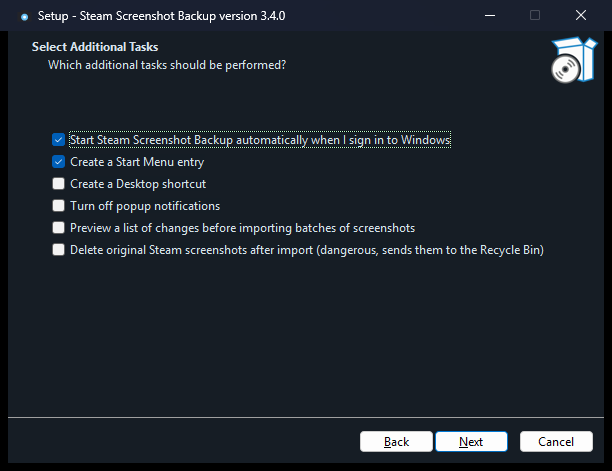
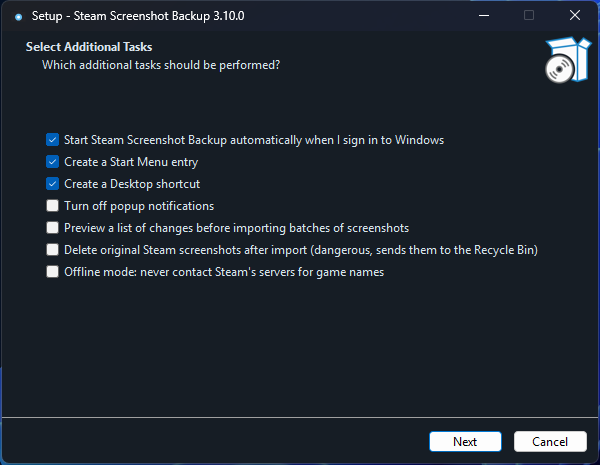
Document Offline Mode in README, regenerate settings/installer screenshots
Mentions the new Offline mode toggle and the offline-only portable download
in the feature list, installation steps, and the two FAQ answers that
previously said there was no way to disable Steam store lookups. Also
regenerates docs/img/settings-general.png (new Privacy section) and
docs/img/installer.png (new task checkbox; also fixes a stale "version
3.4.0" wizard title left over from an old capture).

diff --git a/README.md b/README.md
@@ -99,6 +99,9 @@ Steam Screenshots/
   it's safely backed up, recoverable from the Recycle Bin.
 - **Network-drive friendly.** If the destination becomes unreachable, the app
   waits and retries automatically, then catches up once it's back.
+- **Offline mode.** Skip Steam's store lookups entirely (a Settings toggle or
+  an installer checkbox), or download the dedicated offline-only portable
+  build with that code removed completely.
 - **Dark and light themes**, or follow the Windows setting.
 - **Statistics**: total games, screenshots, and data, plus per-session counters.
 
@@ -112,9 +115,9 @@ Steam Screenshots/
    [latest release](../../releases/latest).
 2. Run it. Pick an install folder (defaults to Program Files) and choose whether
    to start with Windows, add Start Menu / Desktop shortcuts, turn off popup
-   notifications, preview batches before importing, and (optionally, and flagged as
-   dangerous) delete originals after import. The main window opens automatically
-   when setup finishes.
+   notifications, enable offline mode, preview batches before importing, and
+   (optionally, and flagged as dangerous) delete originals after import. The
+   main window opens automatically when setup finishes.
 3. On first launch, choose your backup folder and which screenshot types to back
    up. That's the entire setup.
 
@@ -134,6 +137,11 @@ Prefer zero-install? Download `SteamScreenshotBackup.exe` (portable) from the
 release, put it anywhere, and run it. Identical functionality; the in-app
 Uninstall option cleans up after itself.
 
+A separate **offline-only** portable build, `SteamScreenshotBackup-Offline.exe`,
+is also available on the same release - identical, but with the Steam
+store name-lookup code removed entirely, for anyone who wants that guarantee
+at the binary level rather than a runtime setting.
+
 > **Windows SmartScreen:** the exe is unsigned, so the first run may show
 > *"Windows protected your PC."* Click **More info → Run anyway**, or build from
 > source (below) if you'd rather not trust a downloaded binary.
@@ -150,10 +158,10 @@ Uninstall option cleans up after itself.
 - **Re-Sync** reviews everything in Steam that's missing from your backup,
   grouped by game, so you can restore just what you pick.
 - **Settings** has two tabs: *General* (theme, notifications, startup, the
-  Markdown index) and *Backup Configuration* (folder, screenshot types,
-  layout, and the danger zone). **Apply** saves in the background without
-  closing the window, so you can keep adjusting settings; **Close** just
-  closes it.
+  Markdown index, offline mode) and *Backup Configuration* (folder, screenshot
+  types, layout, and the danger zone). **Apply** saves in the background
+  without closing the window, so you can keep adjusting settings; **Close**
+  just closes it.
 - **Game Names** fixes delisted or non-Steam games by hand, or opens the
   tracking file directly. Folders it couldn't name on its own are highlighted
   at the top of the list; select one and click **Open Folder** to see the
@@ -222,7 +230,7 @@ Requires the .NET 8 SDK (`winget install Microsoft.DotNet.SDK.8`); the installer
 additionally needs Inno Setup 6 (`winget install JRSoftware.InnoSetup`):
 
 ```powershell
-.\build.ps1     # produces dist\portable and dist\installer
+.\build.ps1     # produces dist\portable, dist\portable-offline, and dist\installer
 ```
 
 For a quick development run: `dotnet run` inside `app\`.
@@ -261,8 +269,11 @@ delete from them if you turn that on. Specifics:
   known locally (installed-game manifests, the existing cache), and
   periodically re-checked in the background for names already resolved this
   way. Only the app ID is sent, never screenshot data, filenames, or anything
-  else; there's no telemetry and no account of any kind. There's currently no
-  setting to disable these lookups.
+  else; there's no telemetry and no account of any kind. Turn on **Offline
+  mode** (Settings → General, or an installer checkbox) to skip these lookups
+  entirely - unresolved games just get an `AppID_<id>` folder name instead,
+  or download the dedicated offline-only portable build with that code
+  removed completely.
 - The source is all here, so anything about how it handles your files can be
   checked directly instead of taken on faith.
 
@@ -291,8 +302,10 @@ data, ever - see [What it does with your files](#what-it-does-with-your-files).
 The app does automatically make read-only network calls to the Steam store to
 resolve an app ID into a game name (only when it can't be found locally, plus
 a periodic background re-check of names resolved this way) - only the numeric
-app ID is sent, nothing else, and there's currently no setting to turn this
-off. No telemetry, no account, no analytics of any kind.
+app ID is sent, nothing else. Turn on **Offline mode** in Settings (or during
+install) to disable these lookups entirely, or use the offline-only portable
+build, which has that code removed at compile time. No telemetry, no account,
+no analytics of any kind.
 
 **Can it delete my screenshots?** Only if you turn on *Delete originals after
 import*, which is off by default and marked as dangerous. Even then, deletions
